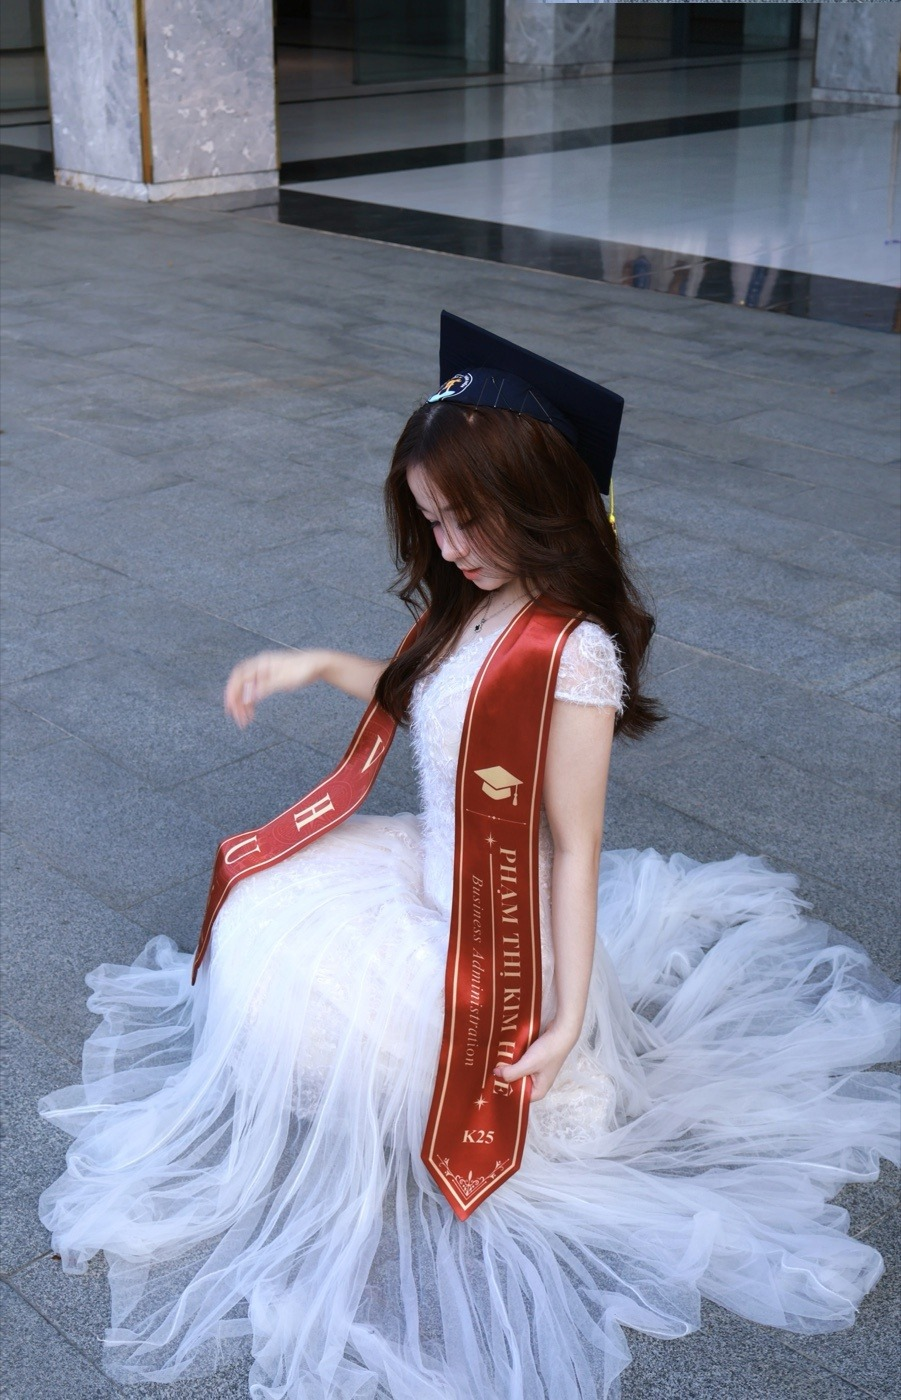
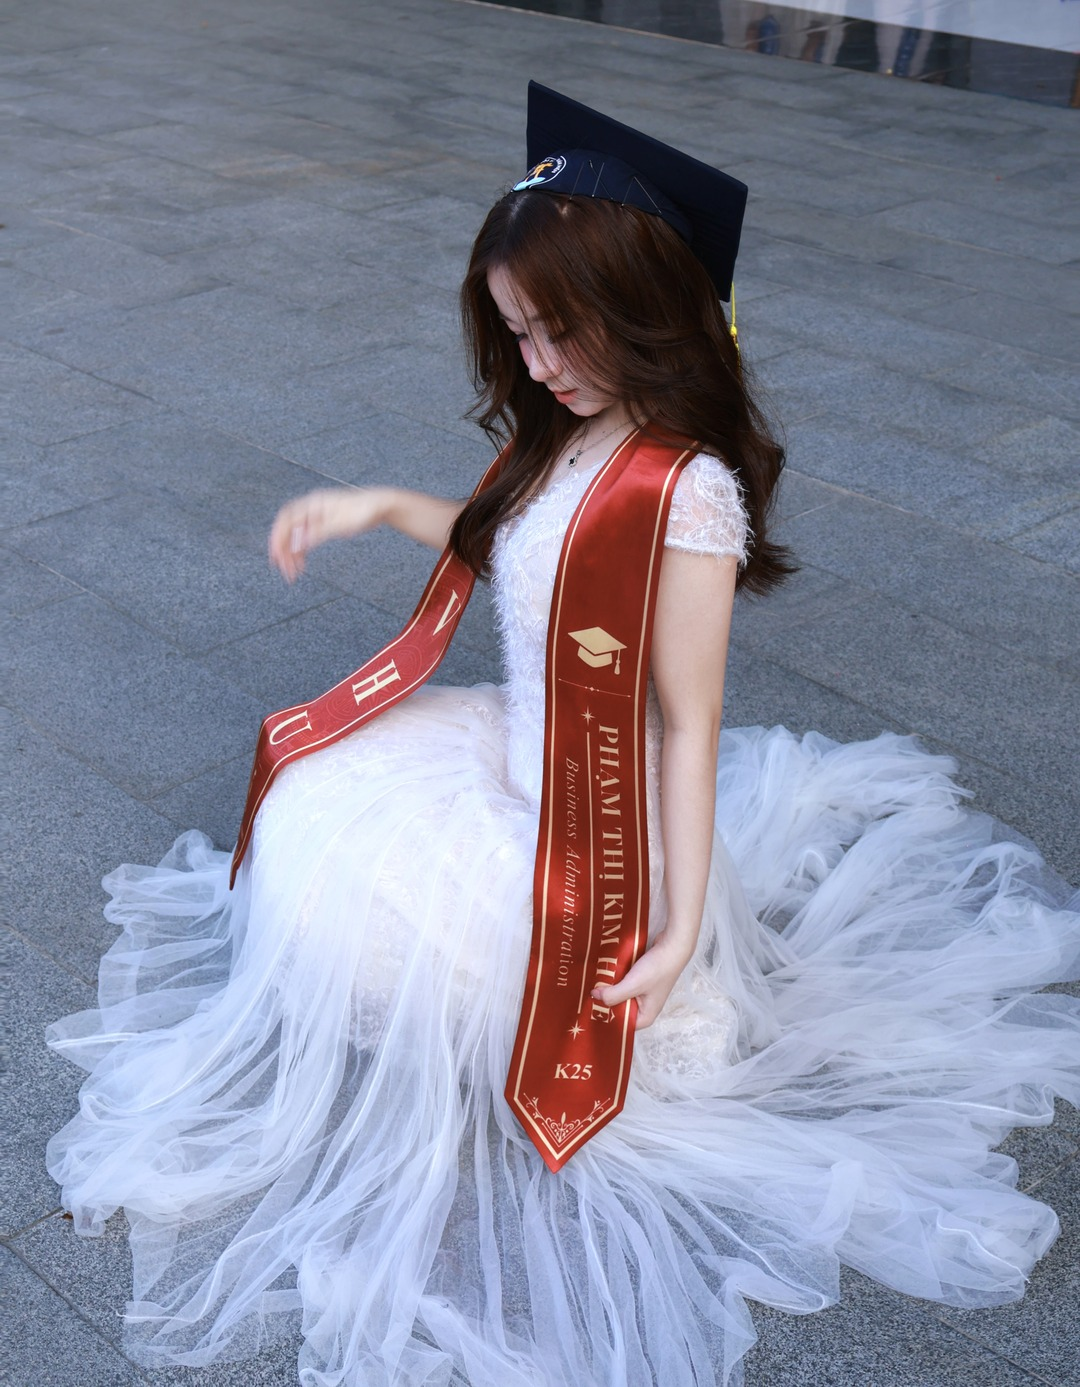
Update photo 4 and 7 to cropped-top version without background people

diff --git a/index.html b/index.html
@@ -20,7 +20,7 @@
   <link href="https://fonts.googleapis.com/css2?family=Cormorant+Garamond:wght@500;600;700&family=Dancing+Script:wght@500;600;700&family=Great+Vibes&family=Montserrat:wght@400;500;600;700;800;900&display=swap" rel="stylesheet">
 
   <!-- Stylesheet -->
-  <link rel="stylesheet" href="css/style.css?v=41">
+  <link rel="stylesheet" href="css/style.css?v=42">
 </head>
 <body class="invitation-pending">
 
@@ -325,8 +325,8 @@
           <div class="memory-photo-card collage-slot-1 album-grid-item" data-full="assets/photos/photo_8.jpg">
             <img src="assets/photos/photo_8.jpg" alt="Khoảnh khắc tốt nghiệp 1" loading="lazy" />
           </div>
-          <div class="memory-photo-card collage-slot-2 album-grid-item" data-full="assets/photos/photo_4.jpg?v=2">
-            <img src="assets/photos/photo_4.jpg?v=2" alt="Khoảnh khắc tốt nghiệp 2" loading="lazy" />
+          <div class="memory-photo-card collage-slot-2 album-grid-item" data-full="assets/photos/photo_4.jpg?v=3">
+            <img src="assets/photos/photo_4.jpg?v=3" alt="Khoảnh khắc tốt nghiệp 2" loading="lazy" />
           </div>
           <div class="memory-photo-card collage-slot-3 album-grid-item" data-full="assets/photos/photo_6.jpg">
             <img src="assets/photos/photo_6.jpg" alt="Khoảnh khắc tốt nghiệp 3" loading="lazy" />
@@ -334,8 +334,8 @@
           <div class="memory-photo-card collage-slot-4 album-grid-item" data-full="assets/photos/photo_5.jpg">
             <img src="assets/photos/photo_5.jpg" alt="Khoảnh khắc tốt nghiệp 4" loading="lazy" />
           </div>
-          <div class="memory-photo-card collage-slot-5 album-grid-item" data-full="assets/photos/photo_7.jpg?v=2">
-            <img src="assets/photos/photo_7.jpg?v=2" alt="Khoảnh khắc tốt nghiệp 5" loading="lazy" />
+          <div class="memory-photo-card collage-slot-5 album-grid-item" data-full="assets/photos/photo_7.jpg?v=3">
+            <img src="assets/photos/photo_7.jpg?v=3" alt="Khoảnh khắc tốt nghiệp 5" loading="lazy" />
           </div>
         </div>
       </div>
@@ -459,7 +459,7 @@
 
   <!-- Scripts chức năng -->
   <script src="js/confetti.browser.min.js"></script>
-  <script src="js/config.js?v=41"></script>
-  <script src="js/app.js?v=41"></script>
+  <script src="js/config.js?v=42"></script>
+  <script src="js/app.js?v=42"></script>
 </body>
 </html>

diff --git a/css/style.css b/css/style.css
@@ -1461,7 +1461,7 @@ body.invitation-pending .polaroid-entrance {
 }
 
 .collage-slot-2 img {
-  object-position: center 55%;
+  object-position: center 50%;
 }
 
 .collage-slot-3 {
@@ -1488,7 +1488,7 @@ body.invitation-pending .polaroid-entrance {
 }
 
 .collage-slot-5 img {
-  object-position: center 55%;
+  object-position: center 50%;
 }
 
 /* Form RSVP & Danh sách lời chúc */
